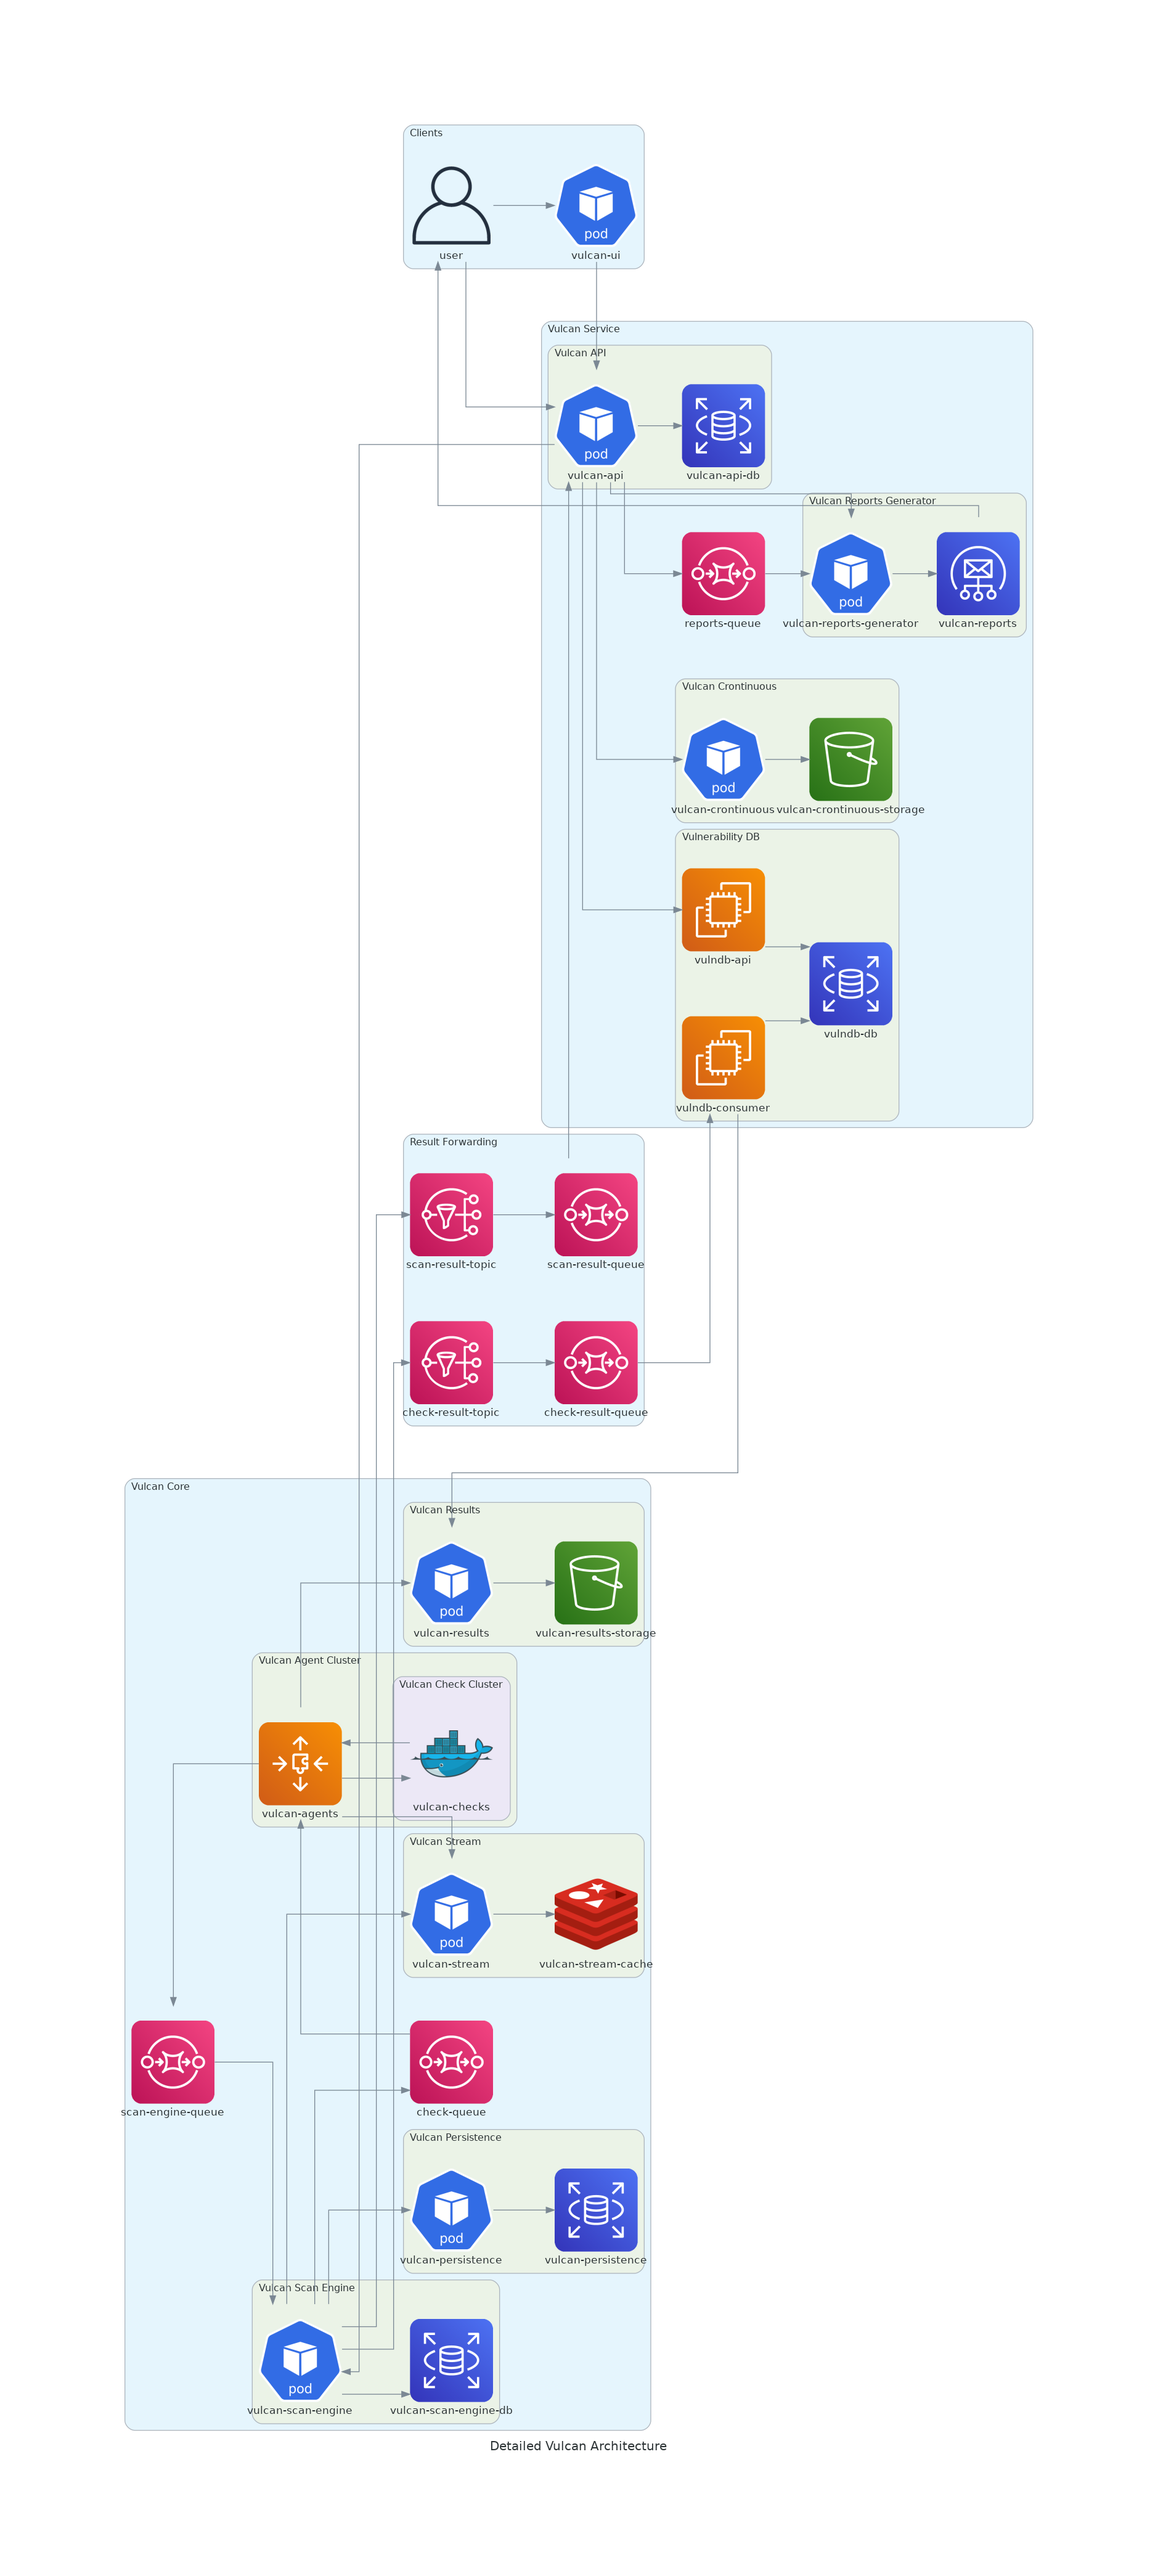
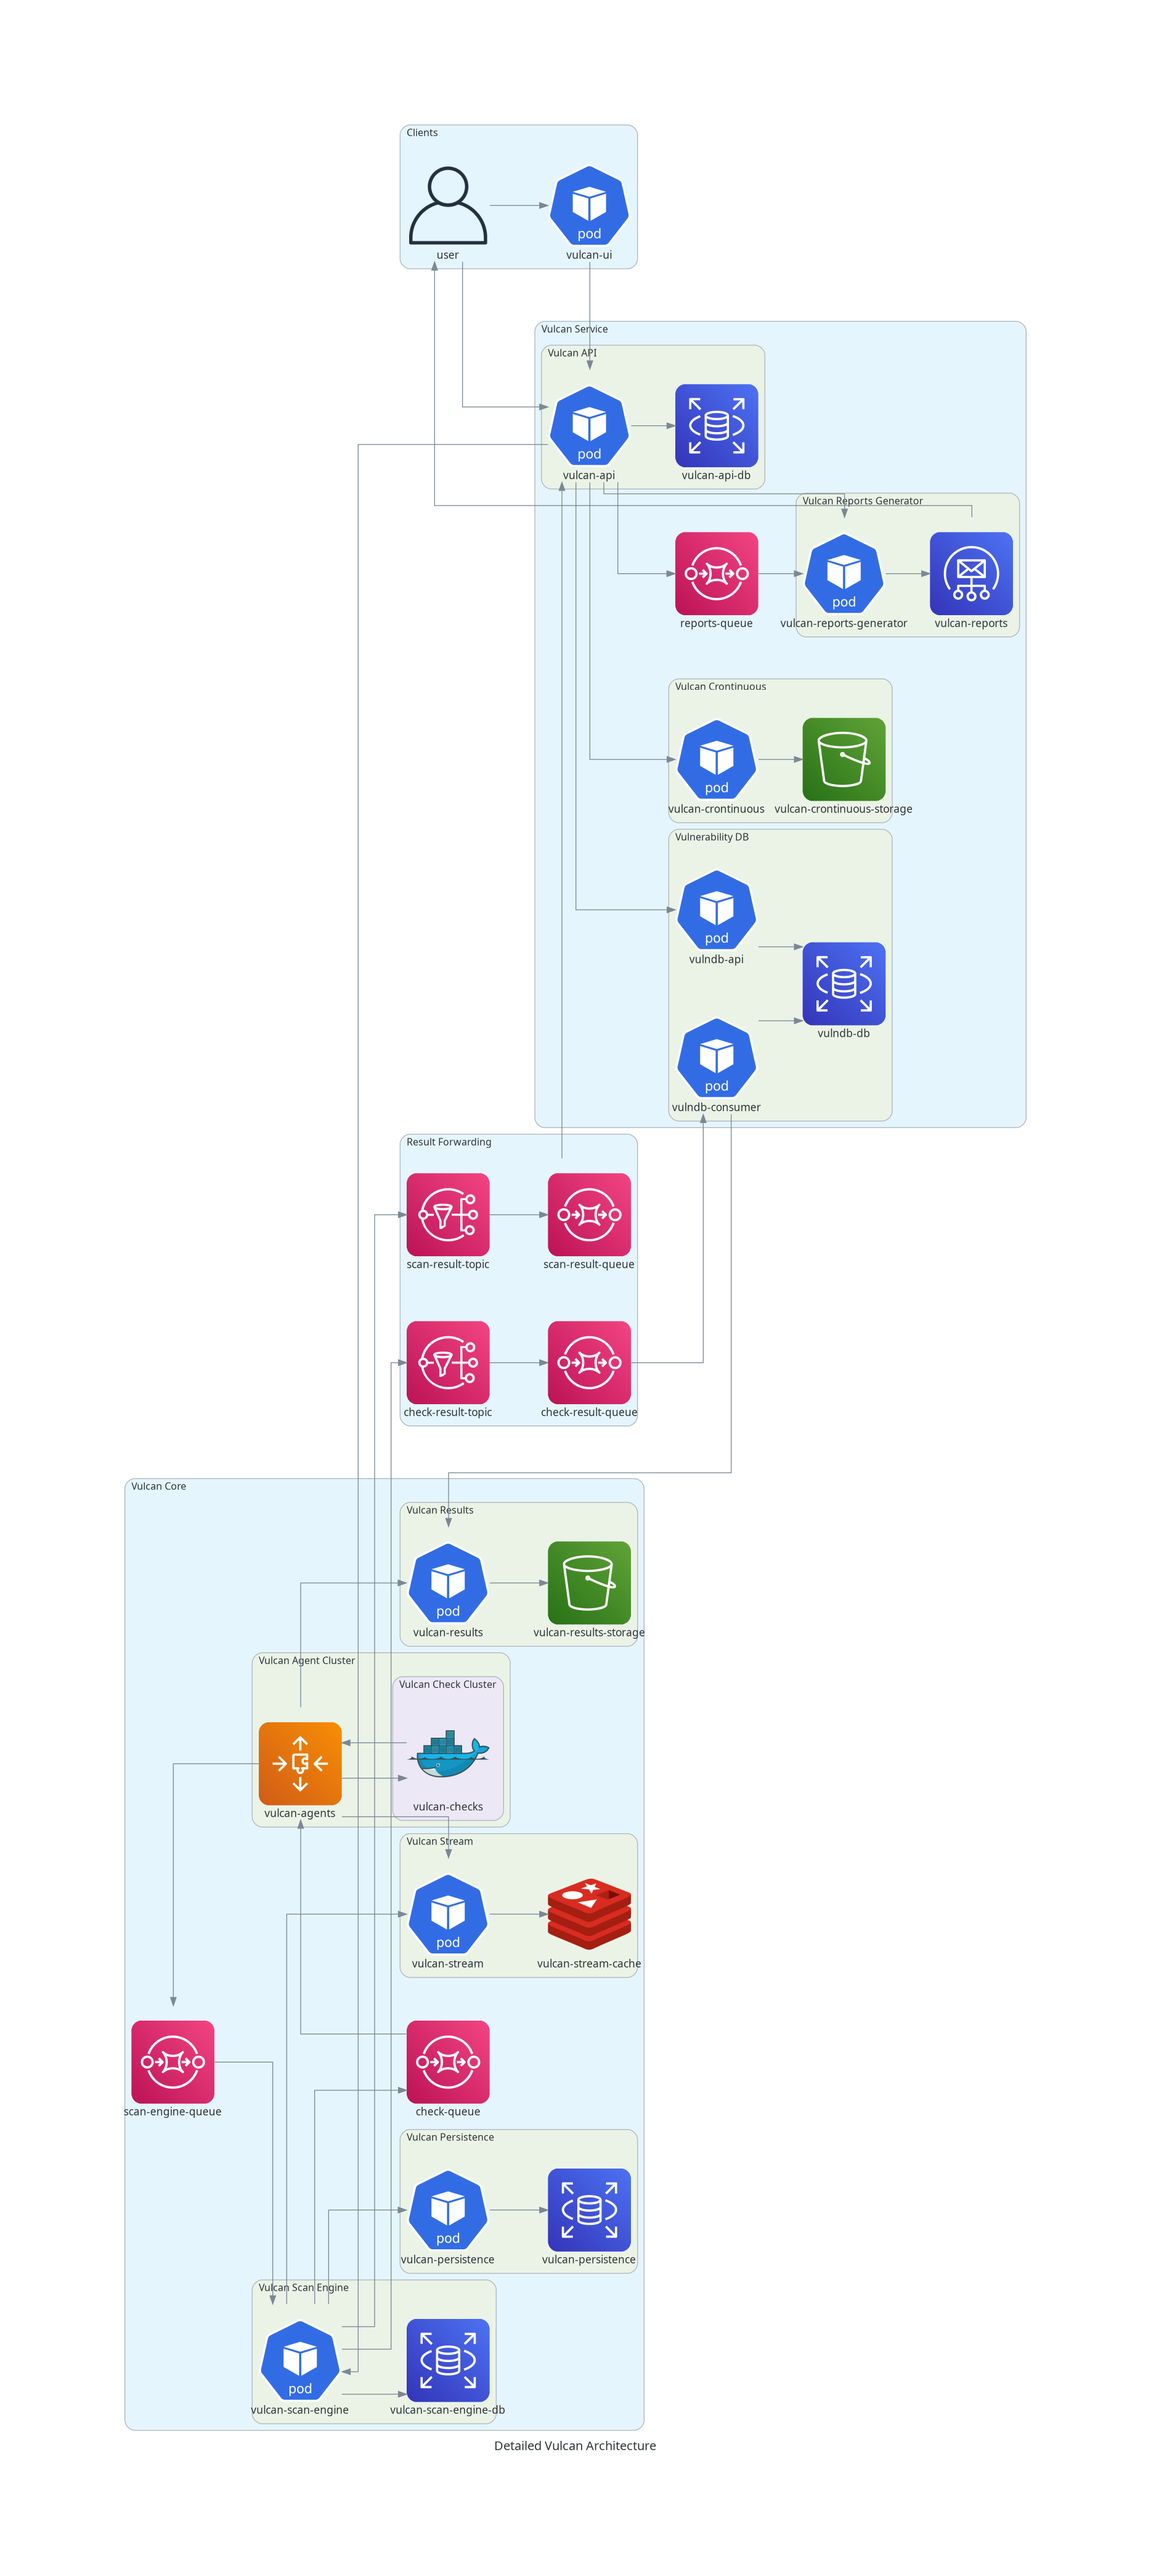
Fix incorrect information

diff --git a/diagrams/detailed-architecture.py b/diagrams/detailed-architecture.py
@@ -21,8 +21,8 @@ with Diagram("Detailed Vulcan Architecture", outformat="png", filename="docs/img
                         vulcan_api >> vulcan_api_db
 
                 with Cluster("Vulnerability DB"):
-                        vulndb_consumer = EC2("vulndb-consumer")
-                        vulndb_api = EC2("vulndb-api")
+                        vulndb_consumer = Pod("vulndb-consumer")
+                        vulndb_api = Pod("vulndb-api")
                         vulndb_db = RDS("vulndb-db")
                         vulndb_consumer >> vulndb_db
                         vulndb_api >> vulndb_db
